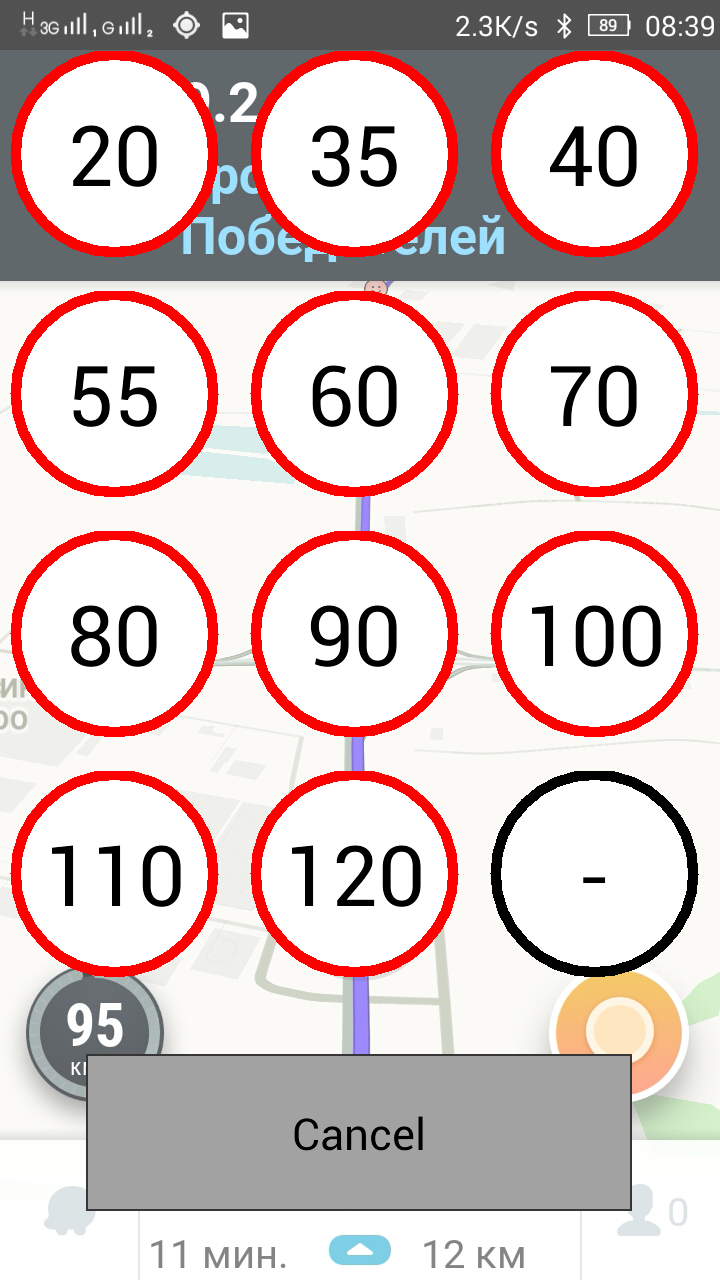
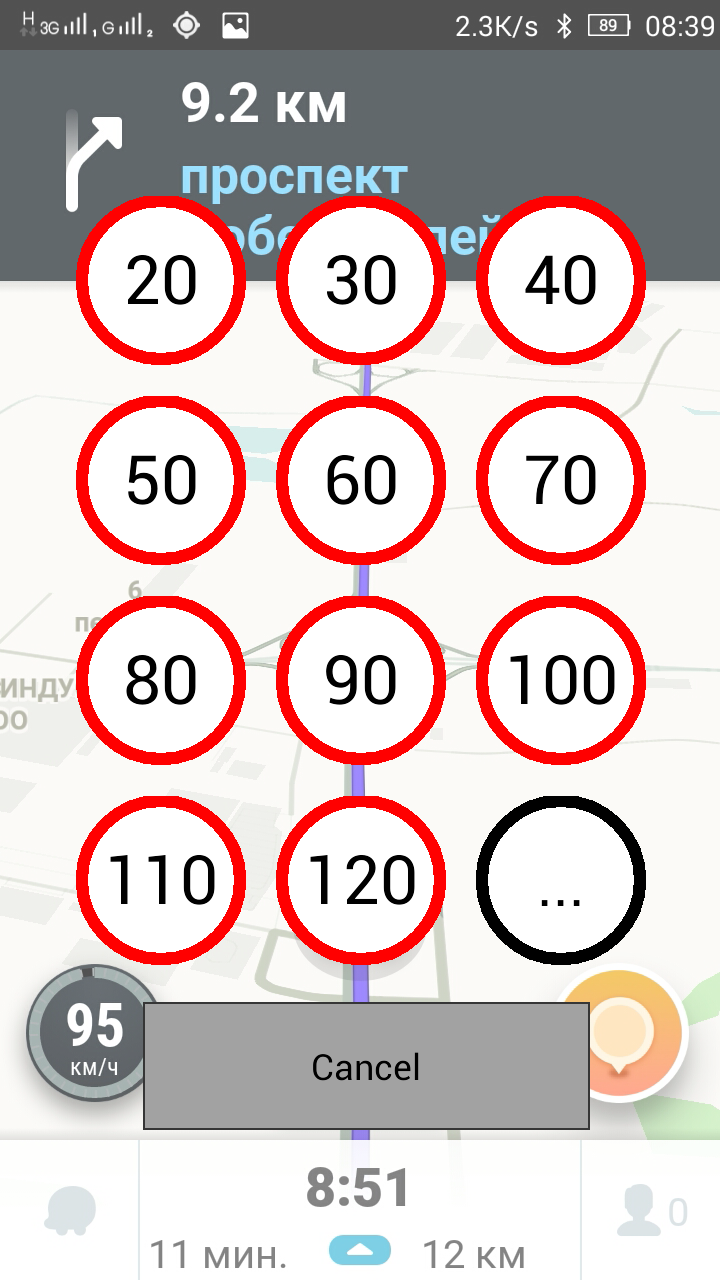
v0.41b

diff --git a/index.html b/index.html
@@ -49,7 +49,7 @@
     
 	<p><strong>Last version: 
     
-        <a href="APK/Waze_SLB_v0.40b.apk">Waze_SLB_v0.40b.apk</a><br/>
+        <a href="APK/Waze_SLB_v0.41b.apk">Waze_SLB_v0.41b.apk</a><br/>
 
     </strong></p>
     </div>
@@ -61,6 +61,8 @@
 		<img onmouseover="preview.src=img1.src" name="img1" src="images/img1.png" alt=""/>
 		<img onmouseover="preview.src=img2.src" name="img2" src="images/img2.png" alt=""/>
 		<img onmouseover="preview.src=img3.src" name="img3" src="images/img3.png" alt=""/>
+		<img onmouseover="preview.src=img4.src" name="img4" src="images/img4.png" alt=""/>
+		<img onmouseover="preview.src=img5.src" name="img5" src="images/img5.png" alt=""/>
 	</div>
 
 	<div class="preview" align="center">
@@ -85,11 +87,13 @@
     <ul>
         <li>app autostarts with Waze (can be disabled in settings) and closes automatically if Waze is closed or another app is on top. <u>For autostart on Android 4.1+ please make sure that the Waze SLB service in enabled in phone settings <i>(Accessibility service)</i></u>;</li>
         <li>app won't send URs if valid Name/Email is not filled or if coordinates weren't received;</li>
-        <li>coordinates are obtained when tapping the speedometer icon, then you can choose the  speed when it's convenient;</li>
+        <li>coordinates are saved when tapping the speedometer icon, then you can choose the  speed when it's convenient;</li>
         <li>configuration form appears at the first start and can be called from the notification;</li>
 		<li>user-defined speed limit values;</li>
+		<li>user-defined comments on [...] button (lomg tap);</li>
         <li>on the config form: tap on version - check the updates, long tap - open url containing all the versions;</li>
-        <li>if the version number is red - new version is available.</li>
+        <li>if the version number is red - new version is available;</li>
+		<li>different sign style for Europe and USA.</li>
     </ul>
     <br/>
     
@@ -106,6 +110,7 @@
     
     <strong>Previous versions:</strong>
     <p>
+        <a href="APK/Waze_SLB_v0.40b.apk">Waze_SLB_v0.40b.apk</a><br/>
         <a href="APK/Waze_SLB_v0.35b.apk">Waze_SLB_v0.35b.apk</a><br/>
         <a href="APK/Waze_SLB_v0.34b.apk">Waze_SLB_v0.34b.apk</a><br/>
         <a href="APK/Waze_SLB_v0.33b.apk">Waze_SLB_v0.33b.apk</a><br/>
